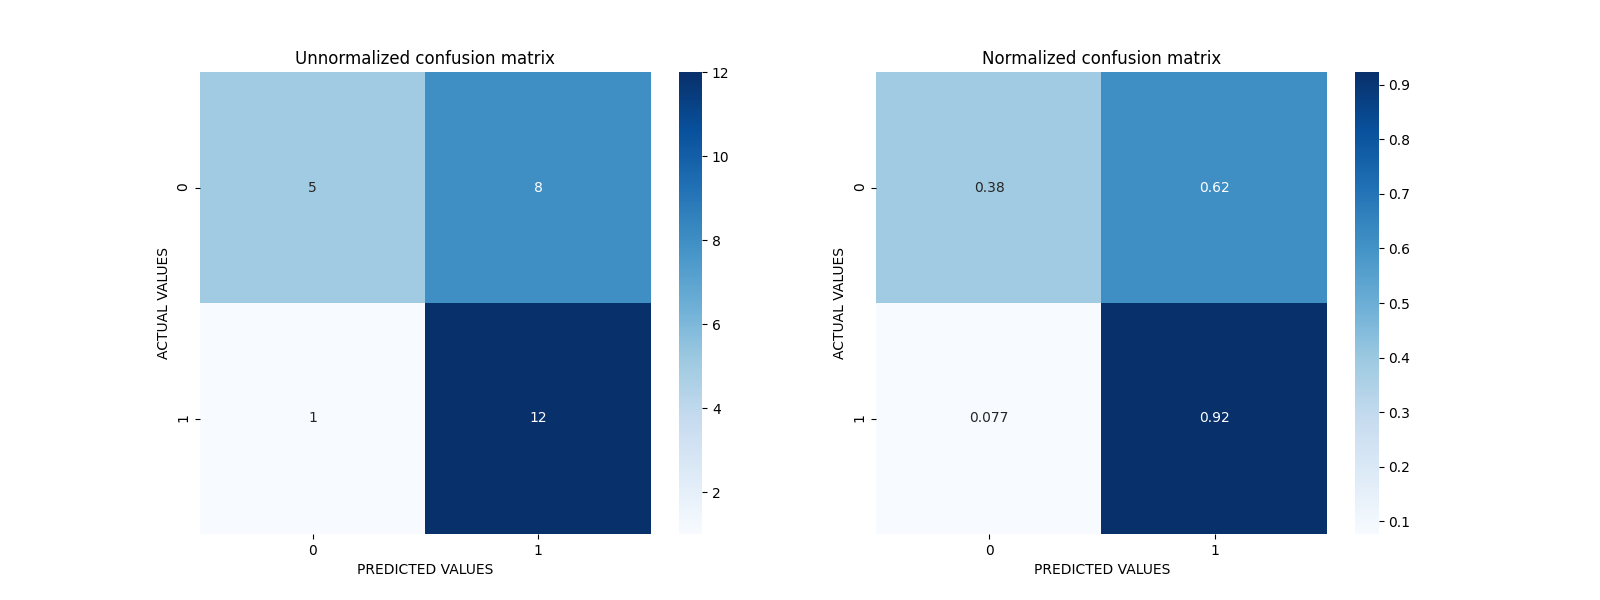
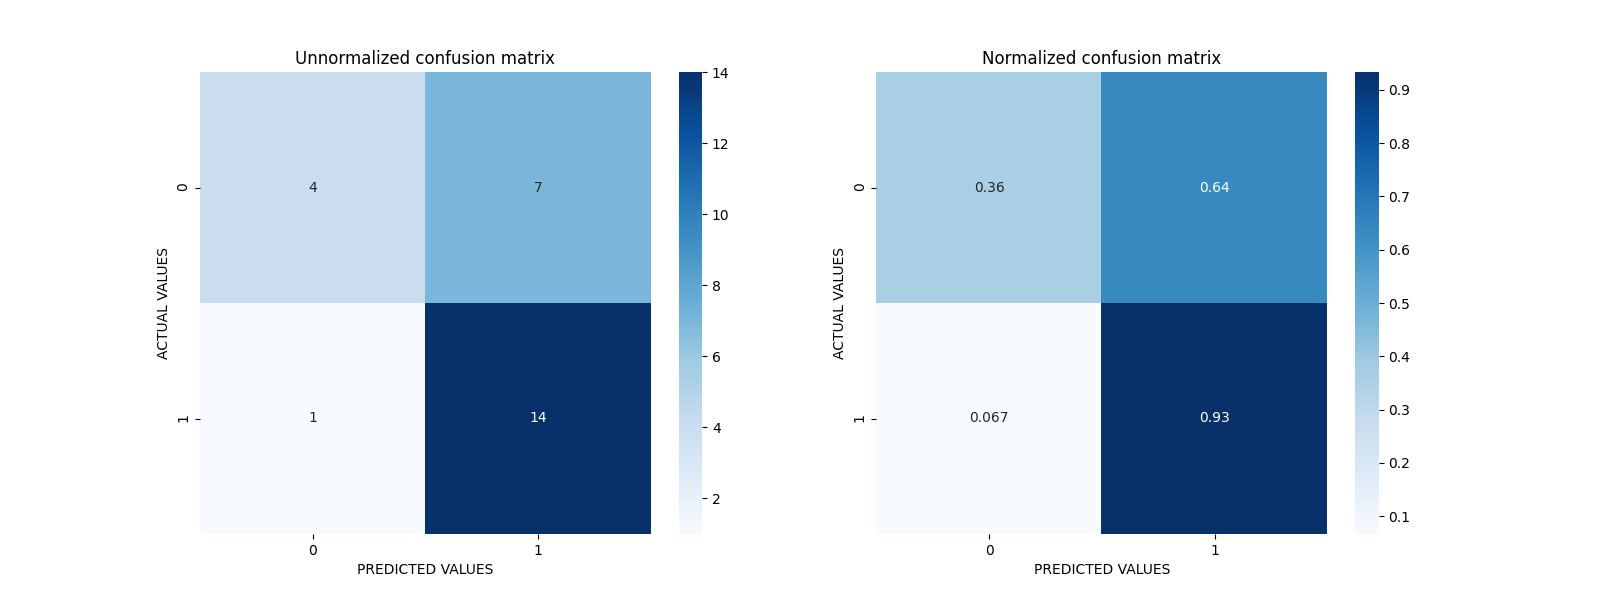
full process completado

Changed region(s): [[0.125, 0.12, 0.4062, 0.51], [0.4375, 0.24, 0.4688, 0.27]]

diff --git a/src/fullprocess.py b/src/fullprocess.py
@@ -1,40 +1,116 @@
-
-
 import training
 import scoring
 import deployment
 import diagnostics
 import reporting
-
-##################Check and read new data
-#first, read ingestedfiles.txt
-
-#second, determine whether the source data folder has files that aren't listed in ingestedfiles.txt
+import ingestion
 
 
+import logging
+import sys
+import os
+import json
+from sklearn.metrics import f1_score
+import re
+import pandas as pd
+import subprocess
 
-##################Deciding whether to proceed, part 1
-#if you found new data, you should proceed. otherwise, do end the process here
+logging.basicConfig(stream=sys.stdout, level=logging.INFO)
+
+with open('config.json','r') as f:
+    config = json.load(f) 
+
+dataset_csv_path      = os.path.join("datasets",config['output_folder_path']) 
+test_data_path        = os.path.join('datasets',config['test_data_path']) 
+input_data_path       = os.path.join('datasets',config['input_folder_path']) 
+
+prod_deployment_path  = os.path.join('model',config['prod_deployment_path']) 
+output_model_path     = os.path.join('model',config['output_model_path']) 
+
+def main():
+    ##################Check and read new data
+    #first, read ingestedfiles.txt
+    # Check and read new data
+    logging.info("Checking for new data")
+
+    # First, read ingestedfiles.txt
+    with open(os.path.join(prod_deployment_path, "ingestedfiles.txt")) as file:
+        ingested_files = {line.strip('\n').split('/')[-1] for line in file.readlines()[1:]}
 
 
-##################Checking for model drift
-#check whether the score from the deployed model is different from the score from the model that uses the newest ingested data
+    #second, determine whether the source data folder has files that aren't listed in ingestedfiles.txt
+    source_files = set(os.listdir(input_data_path))
+    print("source_files   :",source_files)
 
+    print("ingested_files :",ingested_files)
 
-##################Deciding whether to proceed, part 2
-#if you found model drift, you should proceed. otherwise, do end the process here
+    # Deciding whether to proceed, part 1
+    # If you found new data, you should proceed. otherwise, do end the process
+    # here
+    if len(source_files.difference(ingested_files)) == 0:
+        logging.info("No new data found")
+        return None
 
+    # Ingesting new data
+    logging.info("Ingesting new data")
+    ingestion.merge_multiple_dataframe()
 
+    # Checking for model drift
+    logging.info("Checking for model drift")
 
-##################Re-deployment
-#if you found evidence for model drift, re-run the deployment.py script
+    # Check whether the score from the deployed model is different from the
+    # score from the model that uses the newest ingested data
+    logging.info(os.path.join(prod_deployment_path, "latestscore.txt"))
+    with open(os.path.join(prod_deployment_path, "latestscore.txt")) as file:        
+        deployed_score = re.findall(r'f1 score  = \d*\.?\d+',file.readlines()[0])
+        deployed_score = deployed_score[0].split("= ")[1]
+        deployed_score = float(deployed_score)
+        
 
-##################Diagnostics and reporting
-#run diagnostics.py and reporting.py for the re-deployed model
+    data_df = pd.read_csv(os.path.join(dataset_csv_path, 'finaldata.csv'))
+    y_df = data_df.pop('exited')
+    X_df = data_df.drop(['corporation'], axis=1)
 
+    y_pred = diagnostics.model_predictions(X_df)
+    new_score = f1_score(y_df.values, y_pred)
 
+    # Deciding whether to proceed, part 2
+    logging.info(f"Deployed score = {deployed_score}")
+    logging.info(f"New score = {new_score}")
 
+    # If you found model drift, you should proceed. otherwise, do end the
+    # process here
+    if(new_score >= deployed_score):
+        logging.info("No model drift occurred")
+        return None
 
+    # Re-training
+    logging.info("Re-training model")
+    training.train_model()
+    logging.info("Re-scoring model")
+    scoring.score_model()
 
+    # Re-deployment
+    # If you found evidence for model drift, re-run the deployment.py script
+    logging.info("Re-deploying model")
+    deployment.store_model_into_pickle()
 
+    # Diagnostics and reporting
+    logging.info("Running diagnostics and reporting")
+
+    # Run diagnostic
+    diagnostics.dataframe_summary()
+    diagnostics.missing_data()
+    diagnostics.execution_time()
+    diagnostics.outdated_packages_list()
+    reporting.score_model()
+
+    output = subprocess.run(['python', 'src/apicalls.py','-v'],
+                            capture_output=True).stdout
+    print(output.decode())
+    output = subprocess.run(['pytest', 'src/test_api.py','-v'],
+                            capture_output=True).stdout
+    print(output.decode())
+if __name__ == '__main__':
+    main()
 

diff --git a/src/test_api.py b/src/test_api.py
@@ -3,6 +3,8 @@ import sys
 import logging
 import requests
 import json
+from app import app
+
 logging.basicConfig(stream=sys.stdout, level=logging.INFO)
 
 with open('config.json','r') as f:
@@ -15,29 +17,26 @@ output_model_path     = os.path.join('model',config['output_model_path'])
 
 
 
-#Specify a URL that resolves to your workspace
-URL = "http://0.0.0.0:8000"
-
 
 
 def test_prediction():
     #Call each API endpoint and store the responses
     logging.info("Calling /prediction")
-    response1 = requests.post(f'{URL}/prediction',json={'filepath': os.path.join(test_data_path, 'testdata.csv')})#put an API call here
+    response1 = app.test_client().post('/prediction',json={'filepath': os.path.join(test_data_path, 'testdata.csv')})
     assert response1.status_code == 200
 
 def test_scoring():
     logging.info("Calling /scoring")
-    response2 = requests.get(f'{URL}/scoring')#put an API call here
+    response2 = app.test_client().get('/scoring')#put an API call here
     assert response2.status_code == 200
 
 def test_summarystats():
     logging.info("Calling /summarystats")
-    response3 = requests.get(f'{URL}/summarystats')#put an API call here
+    response3 = app.test_client().get('/summarystats')#put an API call here
     assert response3.status_code == 200
 
 def test_diagnostics():
     
     logging.info("Calling /diagnostics")
-    response4 = requests.get(f'{URL}/diagnostics')#put an API call here
+    response4 = app.test_client().get('/diagnostics')#put an API call here
     assert response4.status_code == 200

diff --git a/src/ingestion.py b/src/ingestion.py
@@ -52,12 +52,14 @@ def merge_multiple_dataframe():
     df = df.drop_duplicates().reset_index(drop=1)
 
     logging.info("Saving metadata ingested")
+    logging.info(os.path.join(output_folder_path, 'ingestedfiles.txt'))
     with open(os.path.join(output_folder_path, 'ingestedfiles.txt'), "w") as file:
         file.write(
             f"Ingestion date: {datetime.now().strftime('%d/%m/%Y %H:%M:%S')}\n")
         file.write("\n".join(file_names))
 
     logging.info("Saving data ingested")
+    logging.info(os.path.join(output_folder_path, 'finaldata.csv'))
     df.to_csv(os.path.join(output_folder_path, 'finaldata.csv'), index=False)
 
 

diff --git a/src/apicalls.py b/src/apicalls.py
@@ -37,6 +37,8 @@ response4 = response4.text
 #combine all API responses
 #write the responses to your workspace
 logging.info("Generating report text file")
+logging.info(os.path.join(output_model_path, 'apireturns.txt'))
+
 with open(os.path.join(output_model_path, 'apireturns.txt'), 'w') as file:
     file.write('Endpoint prediction\n')
     file.write(response1)

diff --git a/README.md b/README.md
@@ -1,5 +1,16 @@
 # ML-model-scoring-and-monitoring
 
+This project is about a ML model scoring using a Logictic Regression
+
+Github: https://github.com/CristianLazoQuispe/ML-model-scoring-and-monitoring
+
+## Steps Overview
+1. **Data ingestion:** Automatically check if new data that can be used for model training. Compile all training data to a training dataset and save it to folder. 
+2. **Training, scoring, and deploying:** Write scripts that train an ML model that predicts attrition risk, and score the model. Saves the model and the scoring metrics.
+3. **Diagnostics:** Determine and save summary statistics related to a dataset. Time the performance of some functions. Check for dependency changes and package updates.
+4. **Reporting:** Automatically generate plots and PDF document that report on model metrics and diagnostics. Provide an API endpoint that can return model predictions and metrics.
+5. **Process Automation:** Create a script and cron job that automatically run all previous steps at regular intervals.
+
 
 # Ingestion
 
@@ -10,6 +21,7 @@
             INFO:root:Saving metadata ingested
             INFO:root:Saving data ingested
 
+# Training
  
     $ python src/training.py 
 
@@ -20,6 +32,7 @@
             INFO:root:Training metrics: precision=0.9000 recall=0.6429 f1=0.7500
             INFO:root:Validation  metrics: precision=1.0000 recall=0.5000 f1=0.6667
             INFO:root:Saving trained model
+# Scoring
 
     $ python src/scoring.py 
 
@@ -30,6 +43,8 @@
             INFO:root:Predicting test data
             INFO:root:Testing  metrics: precisio
 
+# Deployment
+
     $ python src/deployment.py 
 
             INFO:root:Model Deployment
@@ -37,6 +52,7 @@
             INFO:root:Copying trainedmodel.pkl
             INFO:root:Copying ingestfiles.txt
             INFO:root:Copying latestscore.txt
+# Diagnostics
 
     $ python src/diagnostics.py
 
@@ -66,7 +82,44 @@
             package_name=cycler               version=0.10.0     latest_version=0.11.0               is_outdated=True                
             package_name=Flask                version=1.1.2      latest_version=2.2.2                is_outdated=True 
 
+# Reporting
 
     $ python src/reporting.py
 
 <img src = "model/practicemodels/confusion_matrix.png?raw=true" width = "900" height = "400" />
+
+# API with Flask
+
+    Open one terminal
+
+    $ python src/app.py
+
+# Testing API
+
+    Open other terminal
+    
+    $ python src/apicalls.py
+
+# Testing API using pytest
+
+    $ pytest src/test_api.py -v
+
+<img src = "screenshoots/pytest_API.png?raw=true" width = "1200" height = "300" />
+
+
+# Full process
+
+    $ python src/fullprocess.py
+
+<img src = "screenshoots/First_execution_fullprocess.png?raw=true" width = "1200" height = "300" />
+
+# Training and reporting after new inyection
+
+ 
+    $ python src/training.py 
+    $ python src/scoring.py 
+    $ python src/deployment.py 
+    $ python src/diagnostics.py
+    $ python src/reporting.py
+
+<img src = "model/models/confusion_matrix2.png?raw=true" width = "900" height = "400" />
